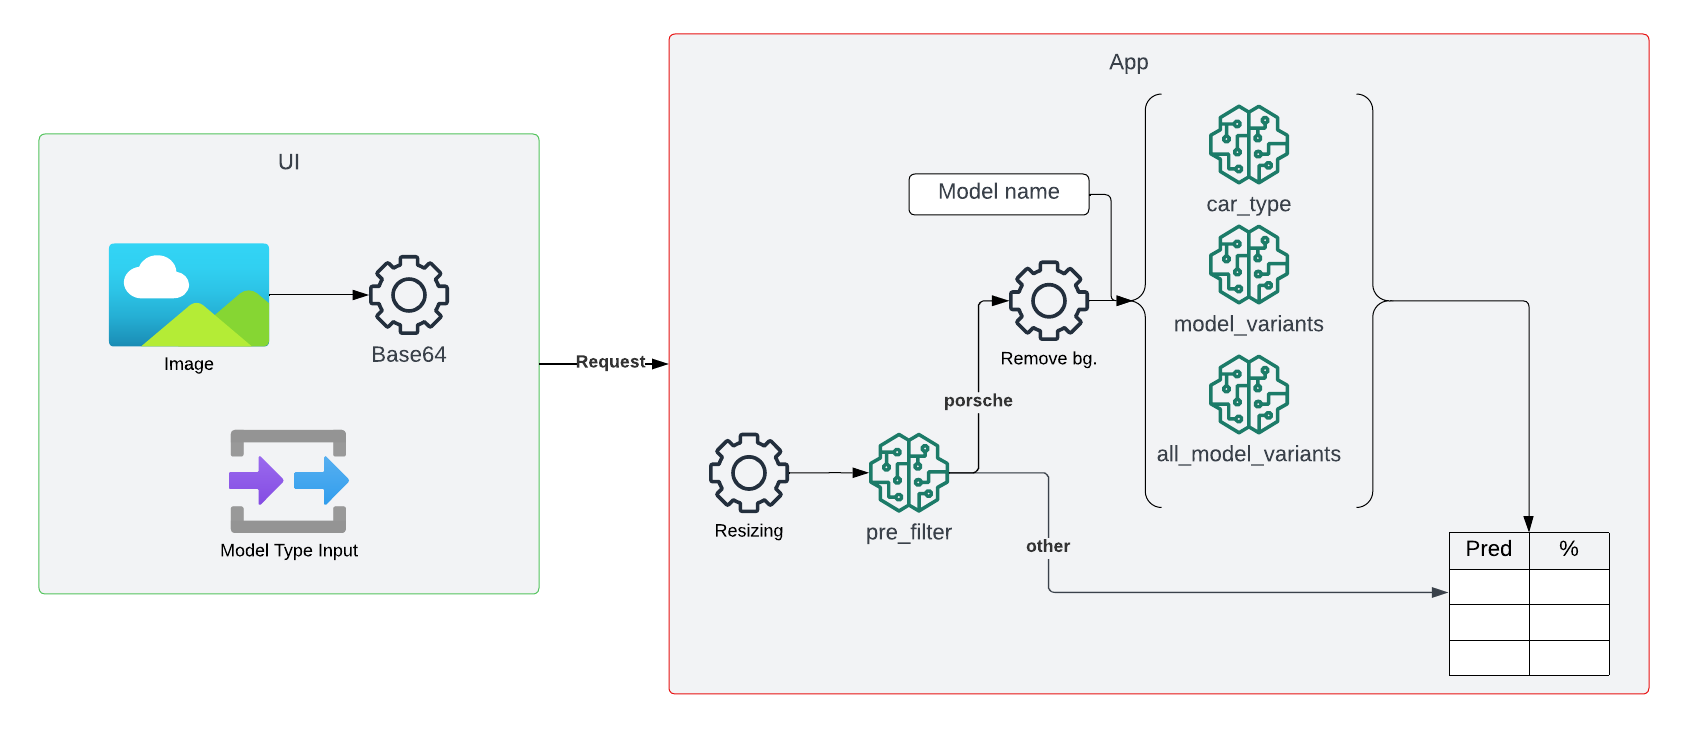
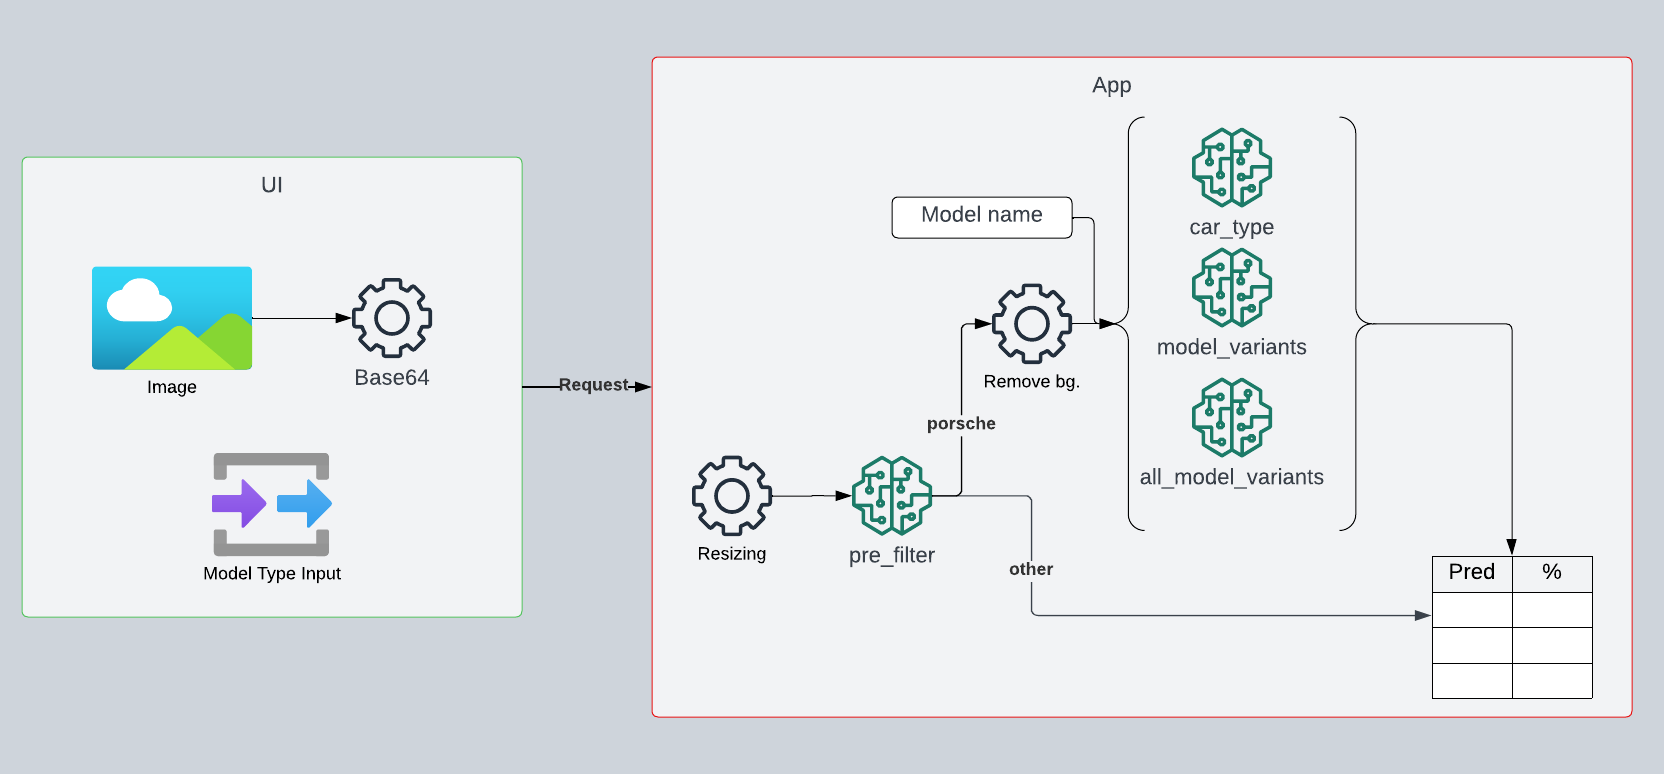
edited readme

diff --git a/README.md b/README.md
@@ -20,12 +20,18 @@ pip install -m build_requirements.txt
 ```bash
 python web_app/main.py
 ```
-or download it from [GitHub](https://github.com/Flippchen/PorscheInsight-CarClassification-AI/actions).
+or download the [executable](https://github.com/Flippchen/PorscheInsight-CarClassification-AI/actions).
+
 ### Screenshot
 <img alt="Screenshot of the Web UI" src="assets/web_app/example_web_ui.png"  width="600" height="400">
 
+### Architecture
+The Web UI consists of two models. The first model (pre_filter) classifies whether a porsche is present on the image and if so the image is passed to the second model which classifies the car based on the user input.
+
+<img alt="Architecture of the Web UI" src="assets/architecture.png"  height="400">
+
 ### ToDos
-- [ ] Implement new Architecture: One model classifies the car type and another model classifies the year of the car
+- [ ] Implement new architecture to online version
 - [ ] Add release 1.0.0
 - [ ] Add docker support
 - [ ] Evaluate feature engineering/ More data augmentation
@@ -47,6 +53,7 @@ or download it from [GitHub](https://github.com/Flippchen/PorscheInsight-CarClas
 - [x] Add django web app
 - [x] Train on cleaned classes with Vision Transformer
 - [x] Add Android App
+- [x] Implement new Architecture: One model classifies if a car is present and a second model classifies the car
 </details>
 
 
